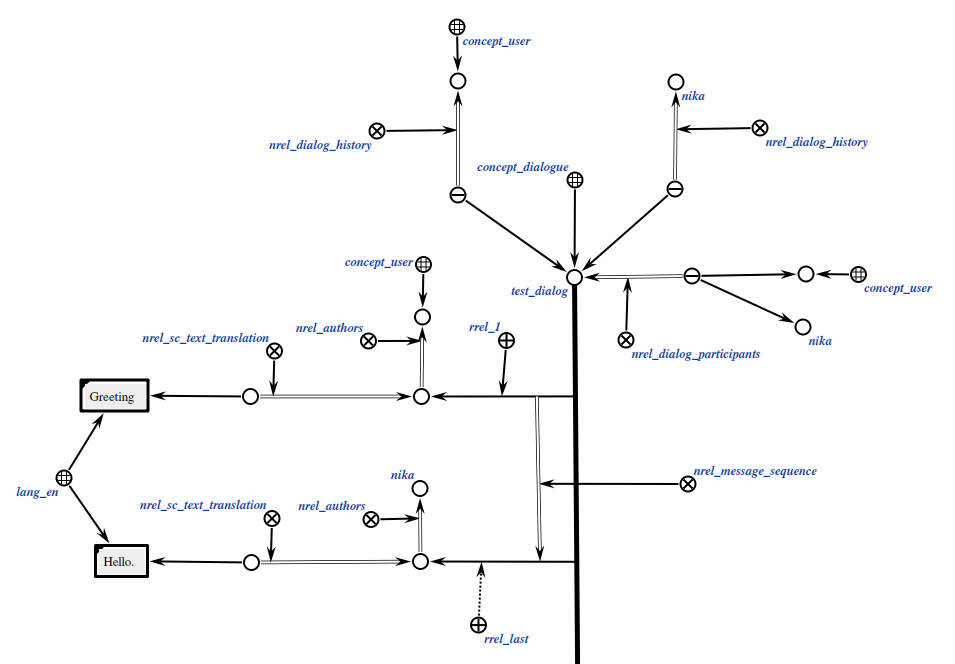
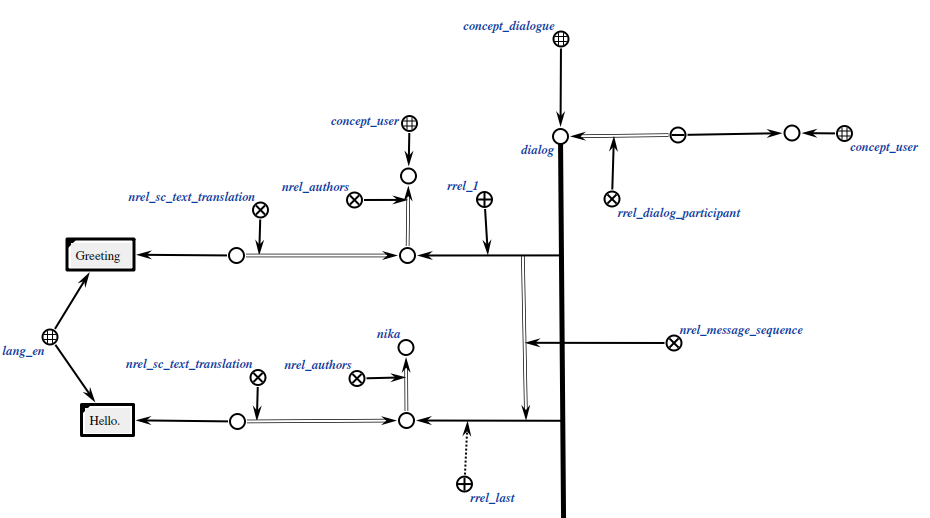
fix: dialog history

diff --git a/docs/agents/addMessageToTheDialogAgent.md b/docs/agents/addMessageToTheDialogAgent.md
@@ -19,12 +19,12 @@ Is an agent that adds message to the dialog,.
 Example of an input structures to add a user message to the dialog:
 
 <img src="../images/addMessageToTheDialogAgentInputUser.png"></img>
-<img src="../images/addMessageToTheDialogAgentInputTestDialogUser.png"></img>
+<img src="../images/addMessageToTheDialogAgentInputDialogUser.png"></img>
 
 Example of an input structures to add a systems message to the dialog:
 
 <img src="../images/addMessageToTheDialogAgentInputNika.png"></img>
-<img src="../images/addMessageToTheDialogAgentInputTestDialogNika.png"></img>
+<img src="../images/addMessageToTheDialogAgentInputDialogNika.png"></img>
 
 Example of an output structure:
 
